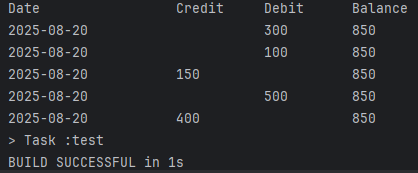
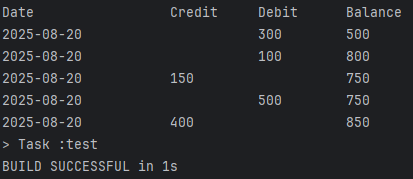
fix printout balance now correct

diff --git a/src/main/java/com/booleanuk/core/Account.java b/src/main/java/com/booleanuk/core/Account.java
@@ -60,7 +60,7 @@ public class Account {
         SimpleDateFormat sdf = new SimpleDateFormat("yyyy-MM-dd");
         String formattedDate = sdf.format(today);
 
-        Transaction transaction = new Transaction(amount, formattedDate, type); // amount, date, type
+        Transaction transaction = new Transaction(amount, this.balance, formattedDate, type); // amount, date, type
         transactionList.add(transaction);
     }
 
@@ -69,9 +69,9 @@ public class Account {
 
         for (Transaction t : transactionList) {
             if (t.getType().equals("debit")) {
-                System.out.printf("%-20s %-10s %-10s %-10s\n", t.getDate(), " ", t.getAmount(), this.getBalance());
+                System.out.printf("%-20s %-10s %-10s %-10s\n", t.getDate(), " ", t.getAmount(), t.getBalance());
             } else if (t.getType().equals("credit")) {
-                System.out.printf("%-20s %-10s %-10s %-10s\n", t.getDate(), t.getAmount(), " ", this.getBalance());
+                System.out.printf("%-20s %-10s %-10s %-10s\n", t.getDate(), t.getAmount(), " ", t.getBalance());
             }
         }
     }

diff --git a/src/main/java/com/booleanuk/core/Transaction.java b/src/main/java/com/booleanuk/core/Transaction.java
@@ -8,12 +8,18 @@ public class Transaction {
     private int amount;
     private String date;
     private String type;
+    private int balance;
 
-    public Transaction(int amount, String date, String type) {
+    public Transaction(int amount, int balance, String date, String type) {
         this.id = UUID.randomUUID().toString();
         this.amount = amount;
+        this.balance = balance;
         this.date = date;
         this.type = type;
+    }
+
+    public int getBalance() {
+        return this.balance;
     }
 
     public String getId() {
